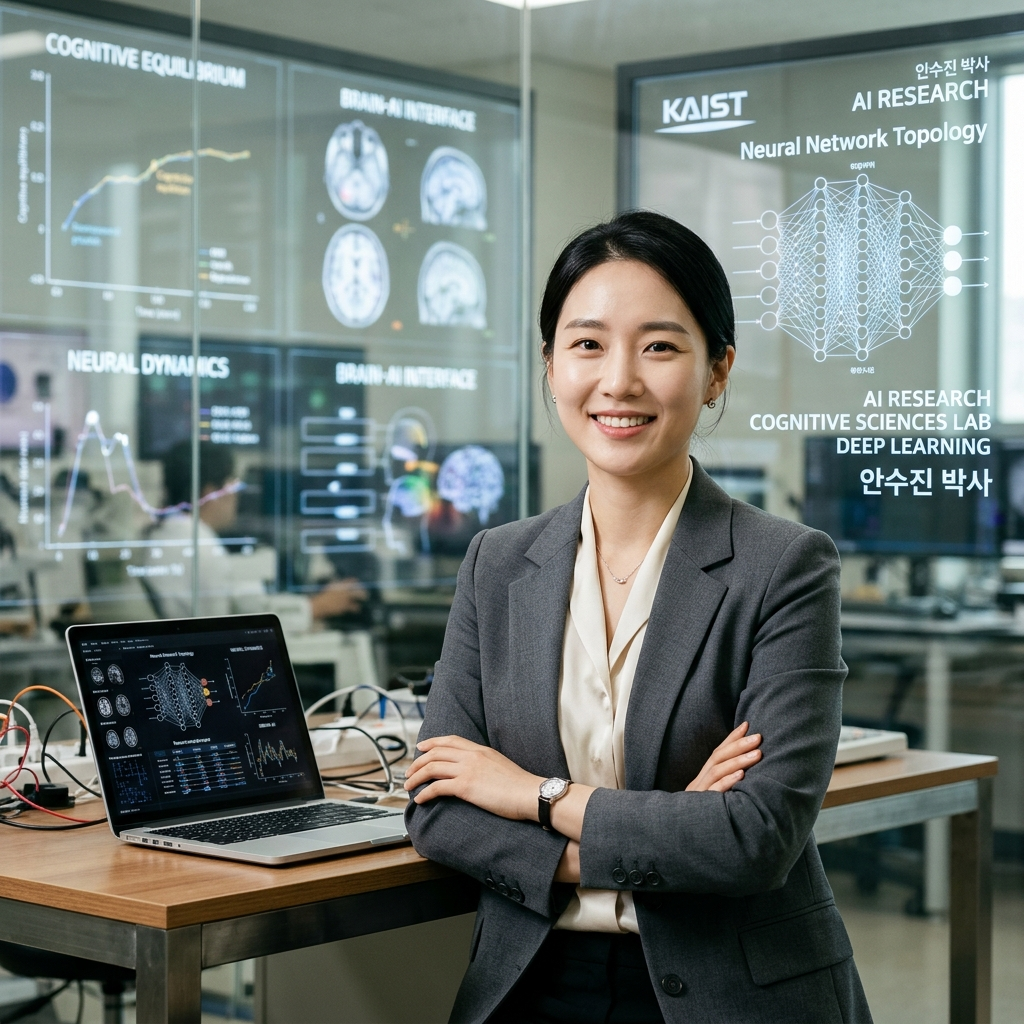
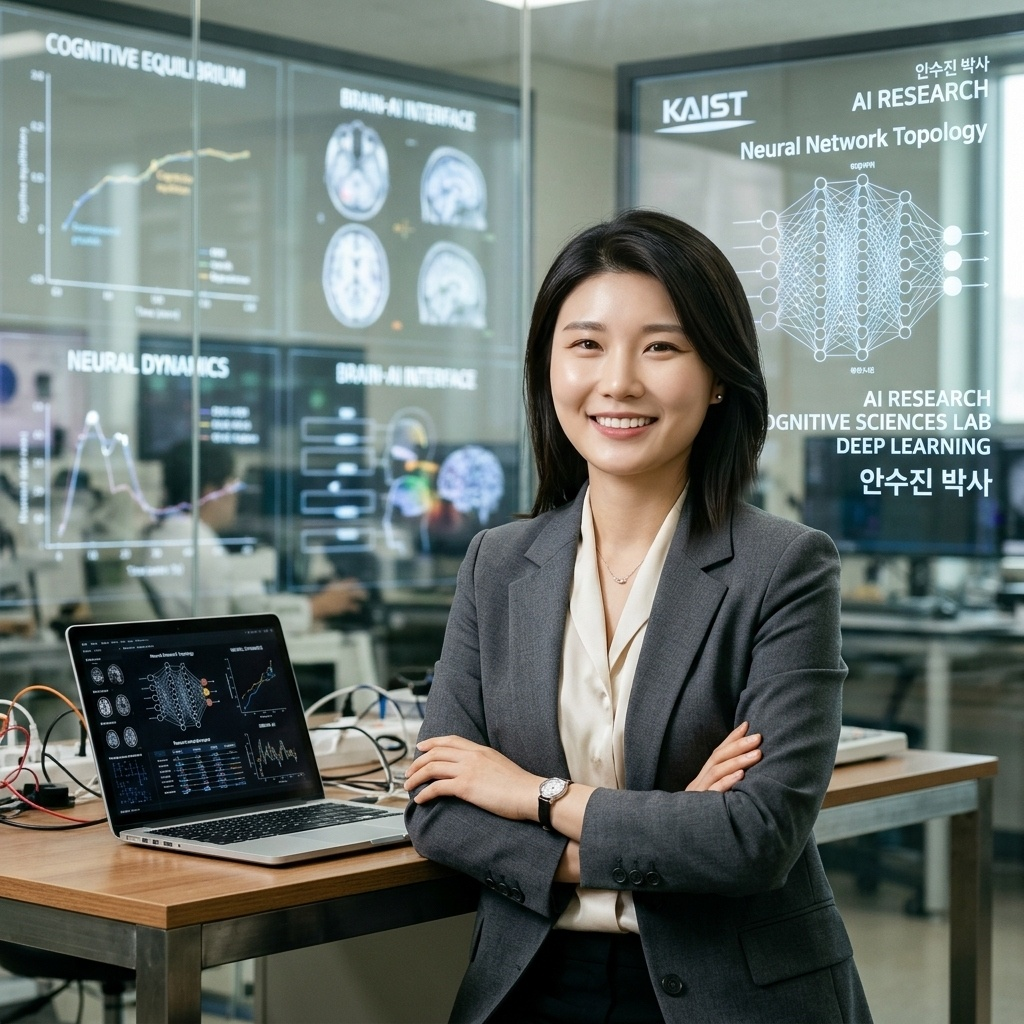
feat(team): update Dr. Su-Jin Ahn KAIST portrait with authentic face composite

Changed region(s): [[0.5, 0.1875, 0.75, 0.5312]]

diff --git a/index-v2.html b/index-v2.html
@@ -1242,7 +1242,7 @@
                             <div class="team-item style-1 effectFade fadeUp">
                                 <div class="top">
                                     <div class="image">
-                                        <img src="assets/images/team/team-2.jpg" alt="안수진 박사 (CTO)">
+                                        <img src="assets/images/team/team-2.jpg?v=20261106v175" alt="안수진 박사 (CTO)">
                                     </div>
                                     <div class="team-profile-side">
                                         <span class="team-role-pill pill-cyan"><span class="dot"></span>CTO · AI CORE LAB</span>

diff --git a/index.html b/index.html
@@ -1331,7 +1331,7 @@
                             <div class="team-item style-1 effectFade fadeUp">
                                 <div class="top">
                                     <div class="image">
-                                        <img src="assets/images/team/team-2.jpg" alt="안수진 박사 (CTO)">
+                                        <img src="assets/images/team/team-2.jpg?v=20261106v175" alt="안수진 박사 (CTO)">
                                     </div>
                                     <div class="team-profile-side">
                                         <span class="team-role-pill pill-cyan"><span class="dot"></span>CTO · AI CORE LAB</span>

diff --git a/about.html b/about.html
@@ -882,7 +882,7 @@
                             <div class="team-item style-1 effectFade fadeUp">
                                 <div class="top">
                                     <div class="image">
-                                        <img src="assets/images/team/team-2.jpg" alt="안수진 박사 (CTO)">
+                                        <img src="assets/images/team/team-2.jpg?v=20261106v175" alt="안수진 박사 (CTO)">
                                     </div>
                                     <div class="team-profile-side">
                                         <span class="team-role-pill pill-cyan"><span class="dot"></span>CTO · AI CORE LAB</span>
